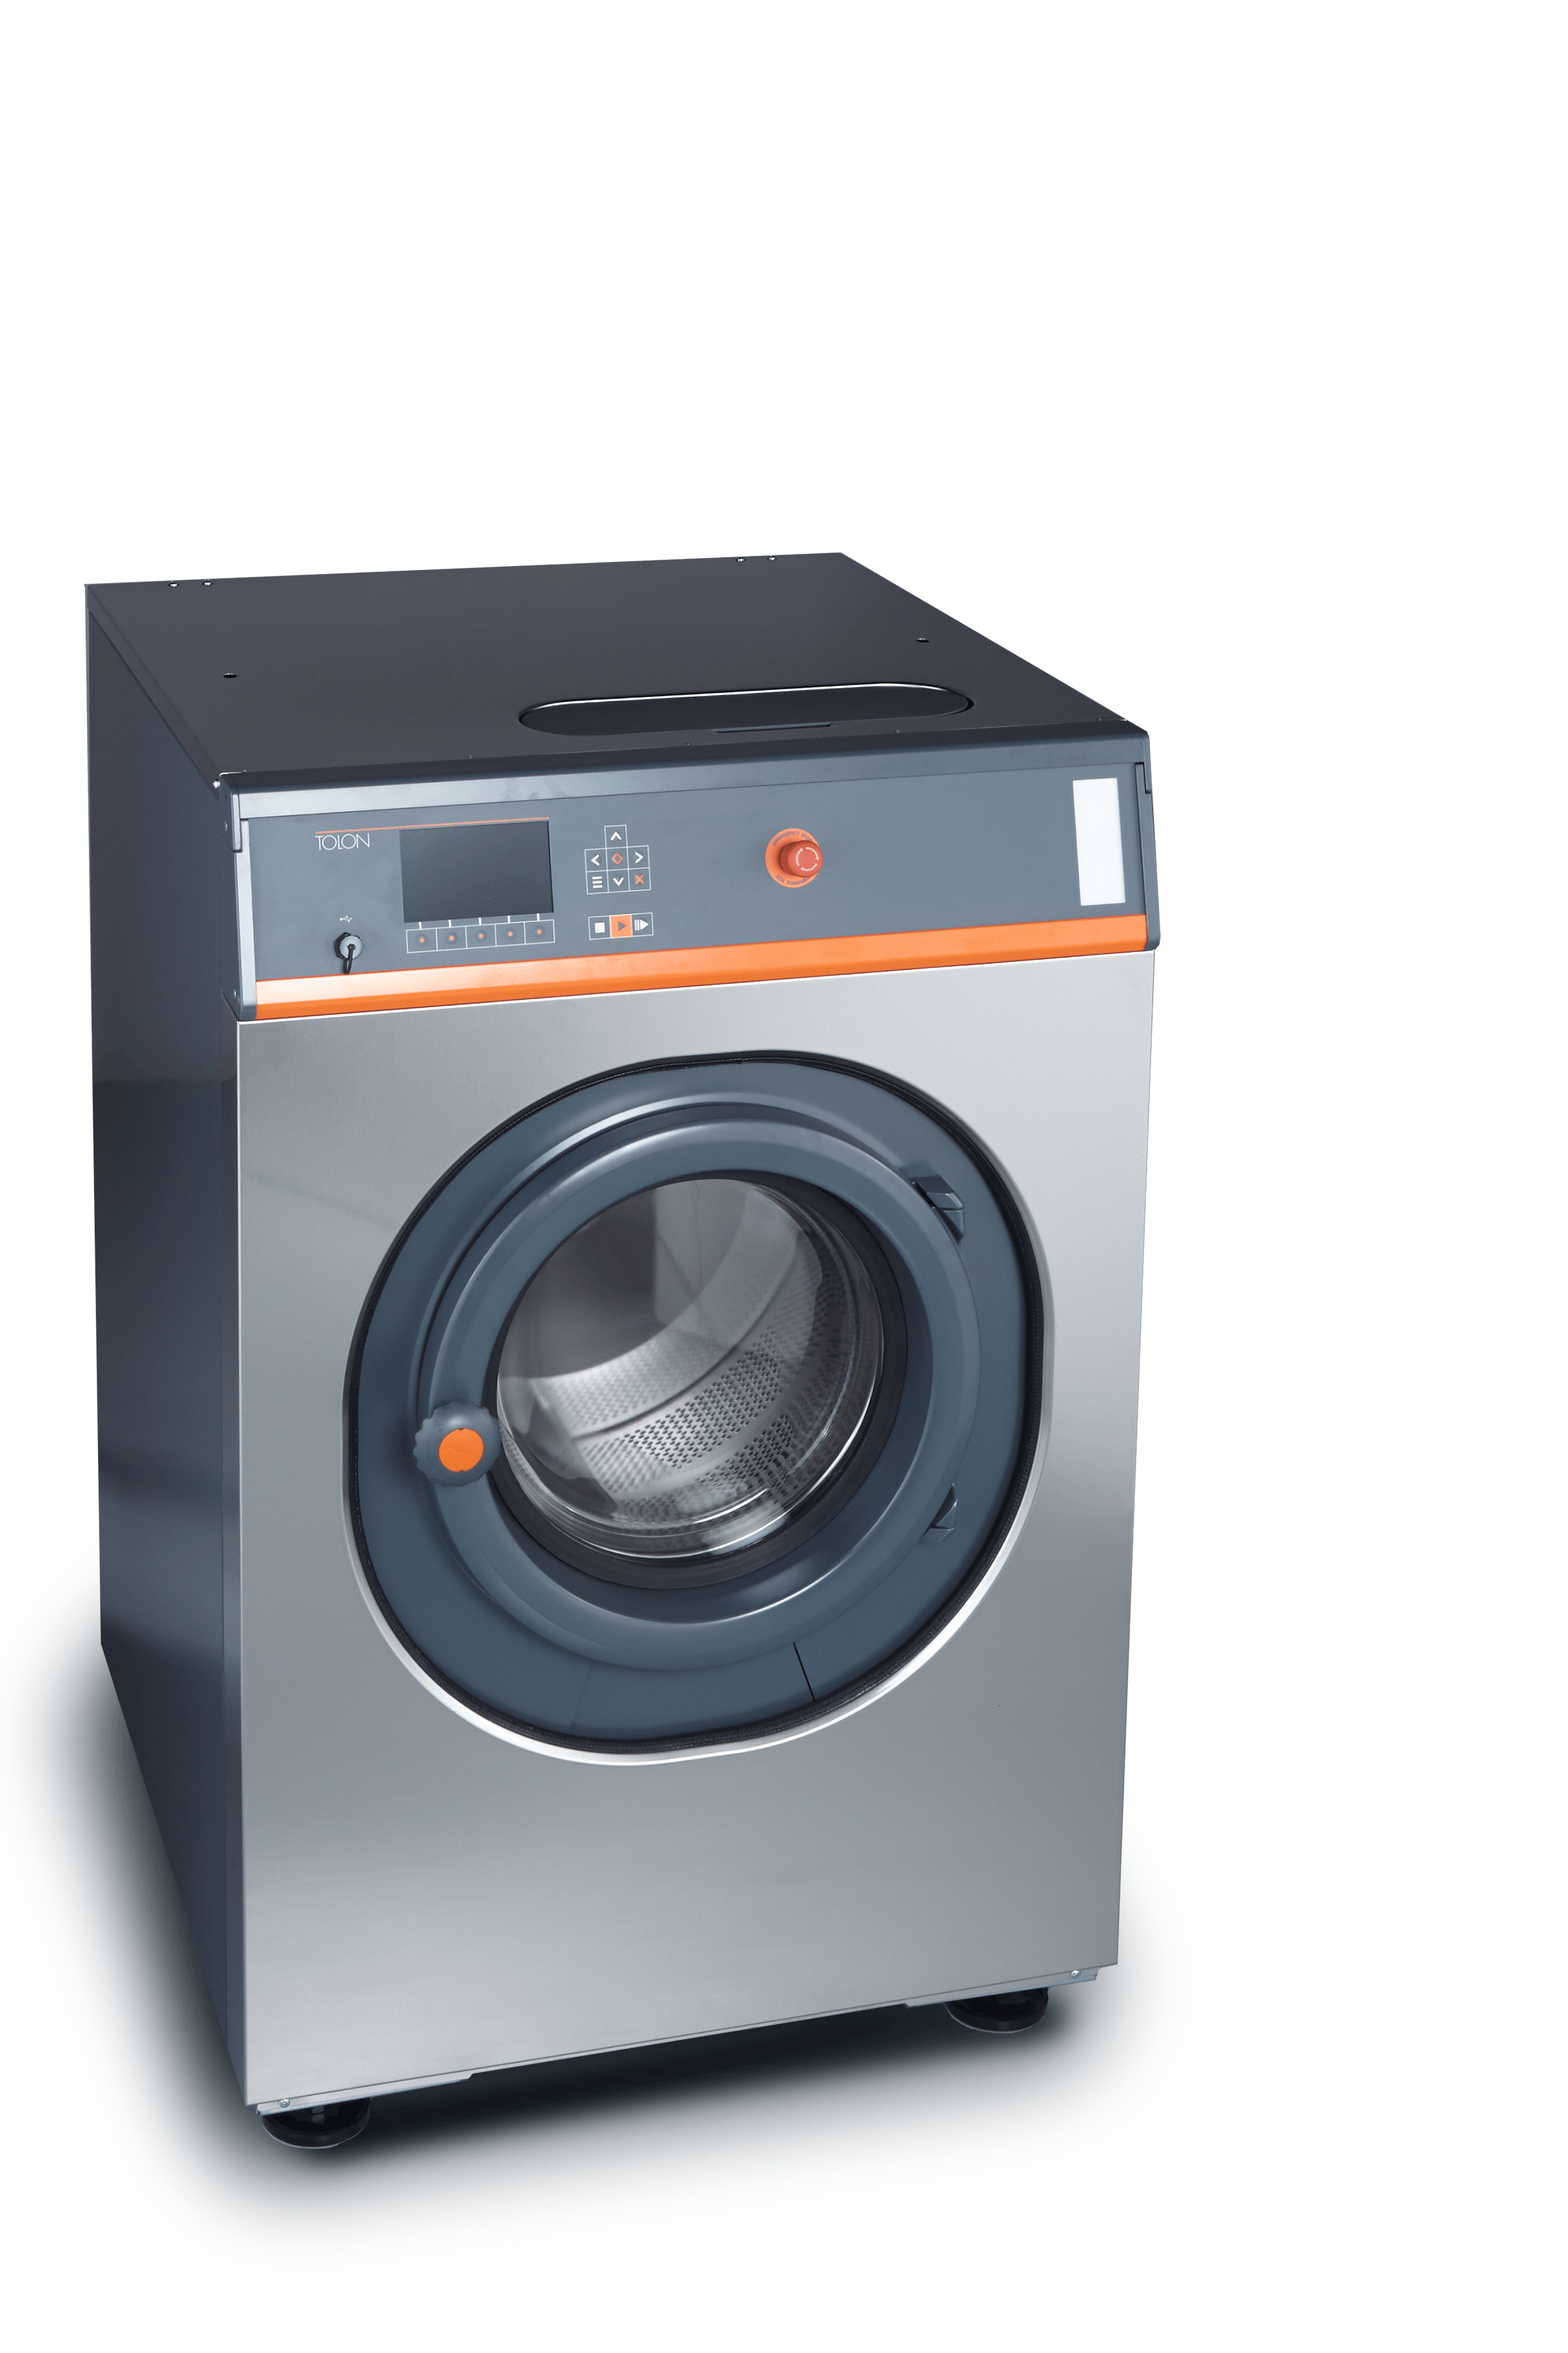
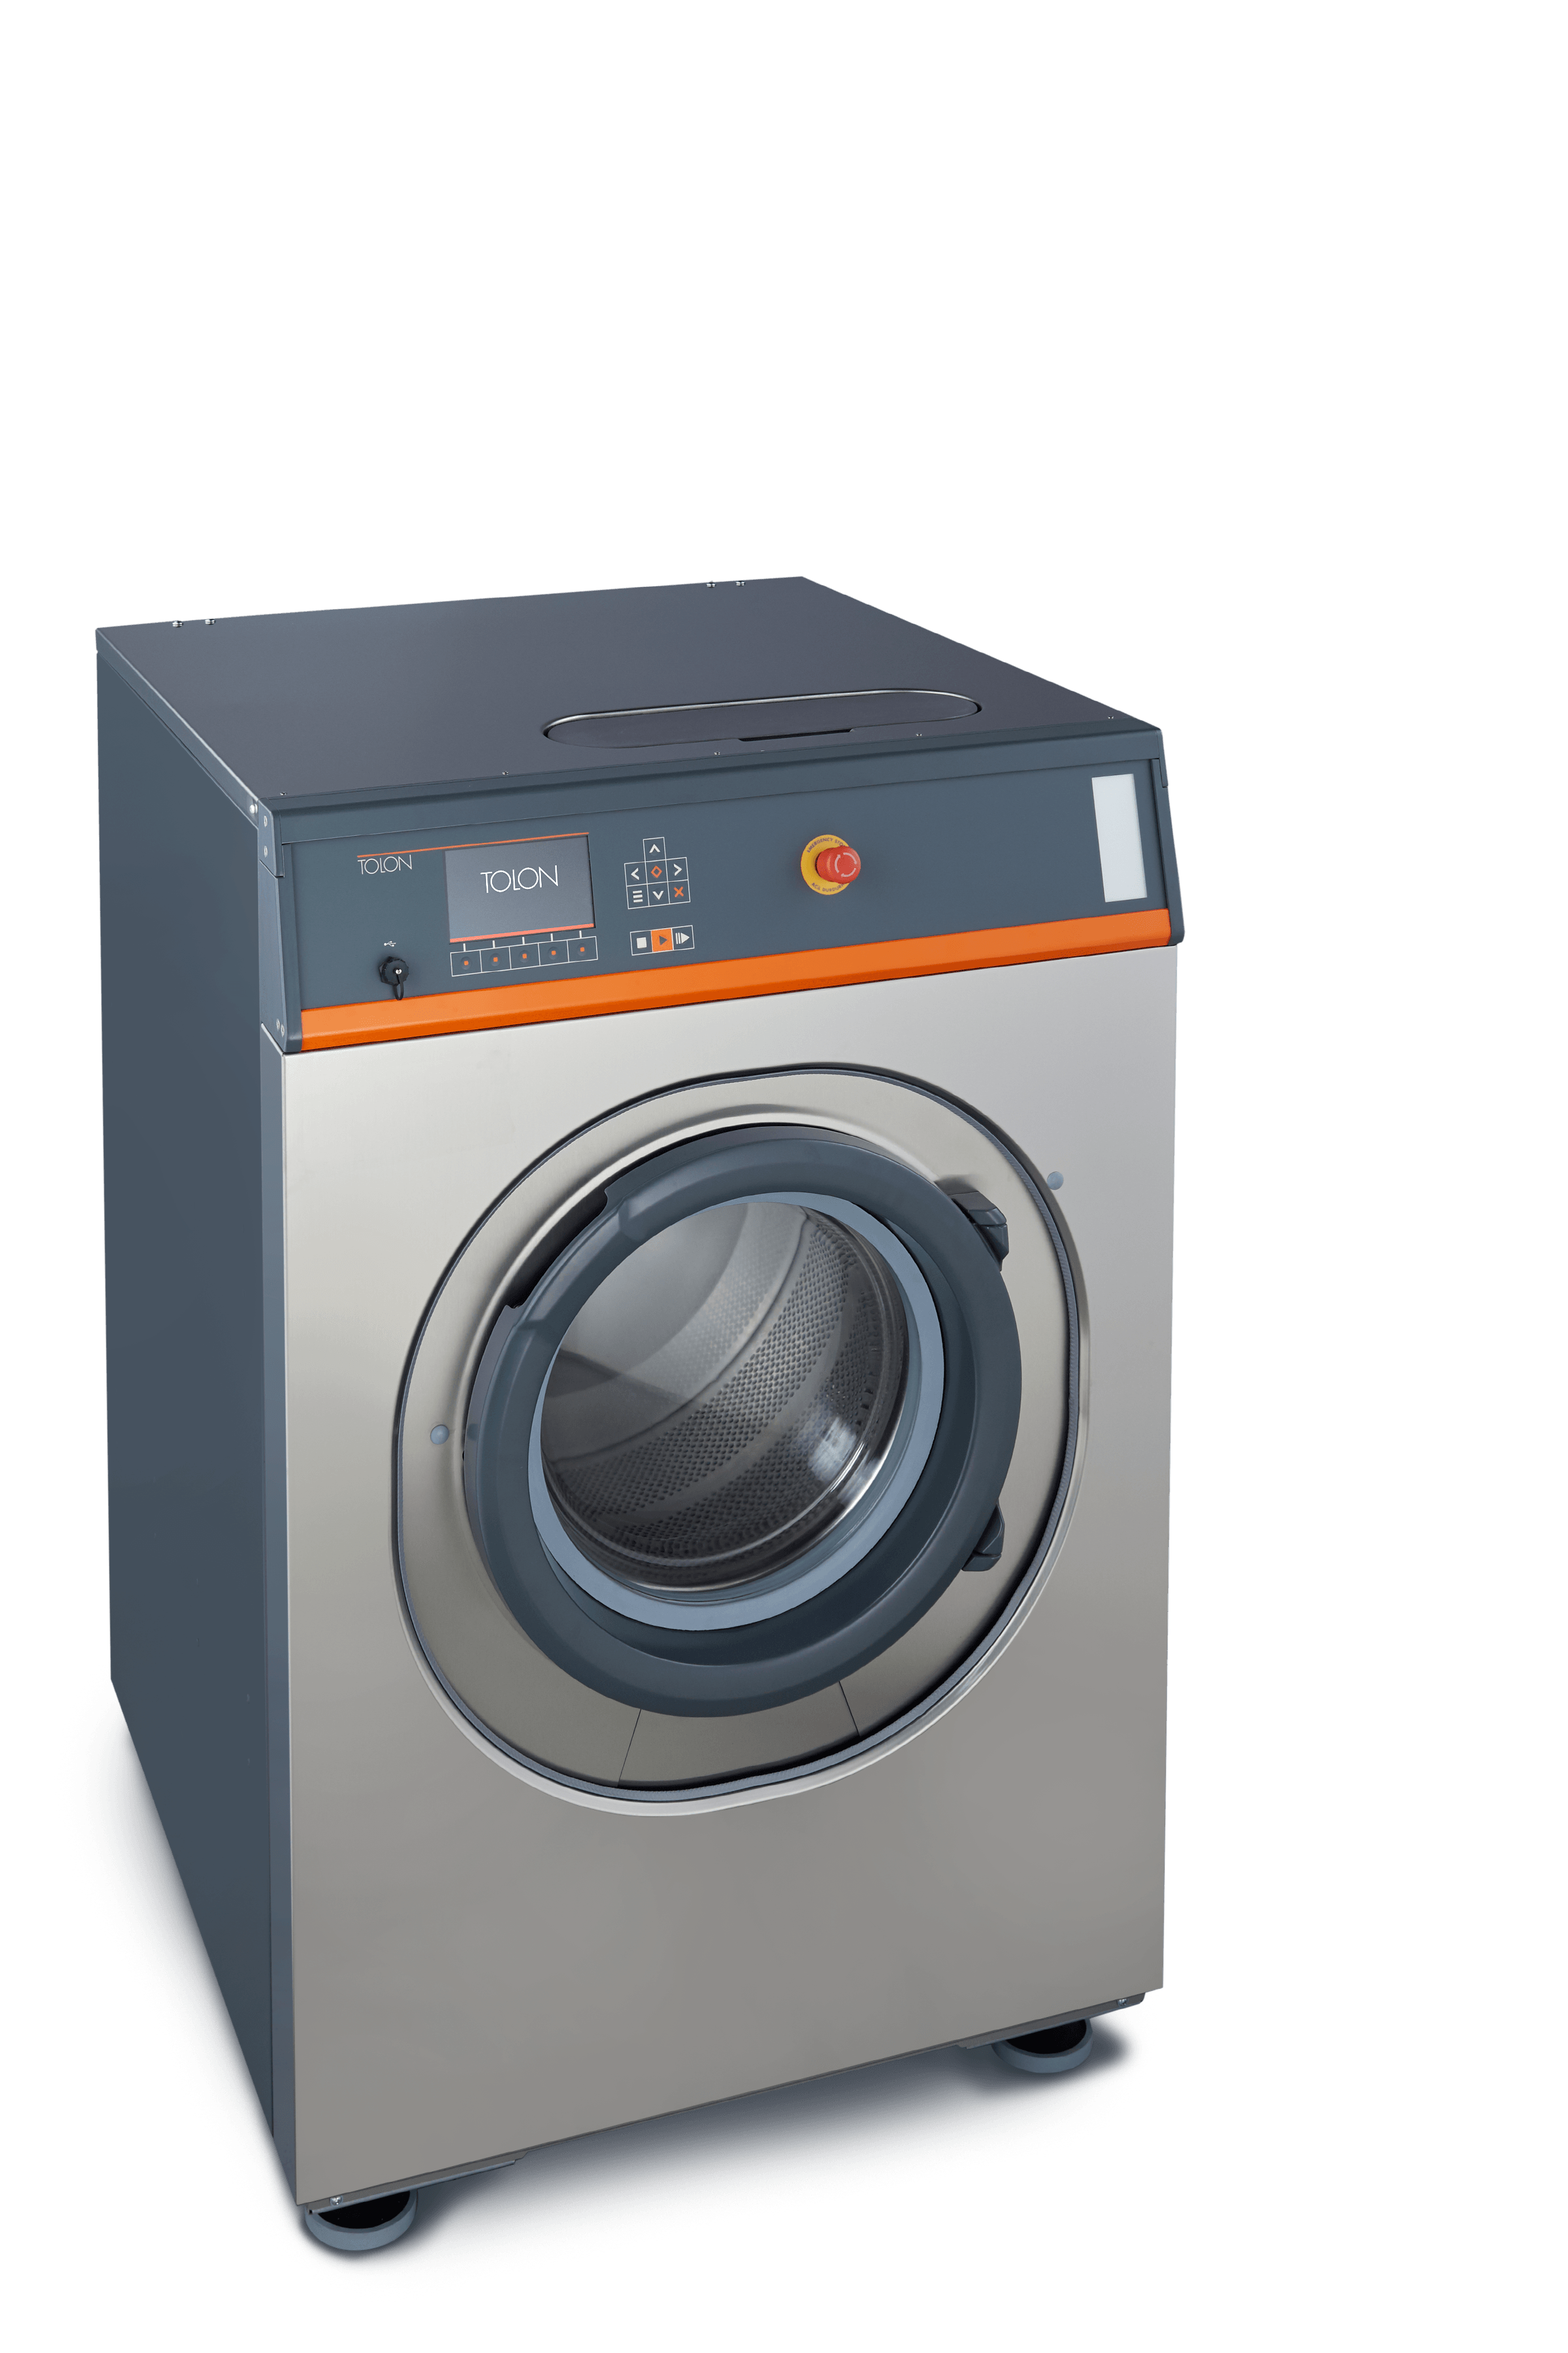
update TWE20 front visuals with the new loading door

diff --git a/twe.html b/twe.html
@@ -1,5 +1,5 @@
 <!doctype html>
-<html lang="en" manifest="/cache.manifest">
+<html lang="tr" manifest="/cache.manifest">
 
 <head>
   <meta charset="utf-8">
@@ -51,7 +51,7 @@
       </section>
 
       <section>
-        <img src="images/twe20_0004_yanyana.png" alt="">
+        <img src="images/twe20_yanyana.png" alt="">
         <div style="top:600px; left:250px;">
           <h4>Kompakt tasarım</h4>
           <h6>Minimum alan, maksimum kapasite</h6>
@@ -122,7 +122,7 @@
       </section>
 
       <section>
-        <img src="images/twe20_00001_deterjanlik_acik.png" alt="">
+        <img src="images/twe20_0001_deterjanlik_acik.png" alt="">
 
 
         <div style="top: 410px; left: 1200px;" class="fragment" data-zoom="1.5">
@@ -157,7 +157,7 @@
         </div>
       </section>
       <section data-flow>
-        <img src="images/twe20_00021_tambur.png" alt="">
+        <img src="images/twe20_0003_tambur.png" alt="">
         <div style="top: 780px; left: 720px;" data-zoom="3">
           <h4>Minimum tambur aralığı</h4>
           <h6>Su tasarrufu, hızlı ısıtma</h6>

diff --git a/en/twe.html b/en/twe.html
@@ -51,7 +51,7 @@
       </section>
 
       <section>
-        <img src="../images/twe20_0004_yanyana.png" alt="">
+        <img src="../images/twe20_yanyana.png" alt="">
         <div style="top:600px; left:250px;">
           <h4>Compact design</h4>
           <h6>Minimum footprint, maximum capacity</h6>
@@ -121,7 +121,7 @@
         </div>
       </section>
       <section>
-        <img src="../images/twe20_00001_deterjanlik_acik.png" alt="">
+        <img src="../images/twe20_0001_deterjanlik_acik.png" alt="">
         <div style="top: 410px; left: 1200px;" class="fragment" data-zoom="1.5">
           <h4>Status light</h4>
           <h6>Remeote awareness</h6>
@@ -154,7 +154,7 @@
         </div>
       </section>
       <section data-flow>
-        <img src="../images/twe20_00021_tambur.png" alt="">
+        <img src="../images/twe20_0003_tambur.png" alt="">
         <div style="top: 780px; left: 720px;" data-zoom="3">
           <h4>Minimum drum spacing</h4>
           <h6>Fast heating, low water consumption</h6>
